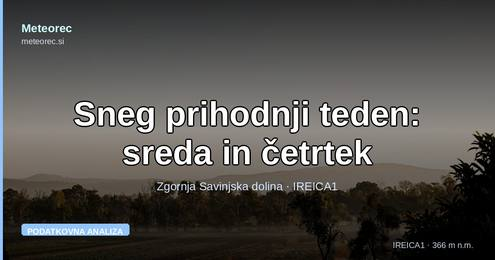
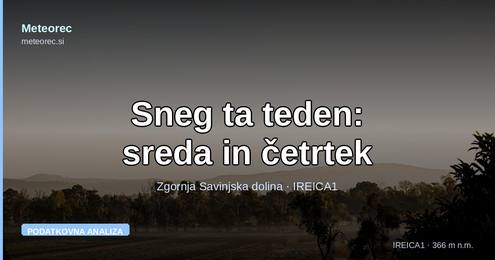
Članek o snegu: »ta teden« namesto »prihodnji teden« (#1633)
* blog: sneg prihodnji teden (ansambli, 21. 11. 2026)

Ročni podatkovni članek: sneg v Rečici in na višinah od 23. do 29. 11. po ansamblih
ECMWF ENS, ICON-EPS, GEFS in GEM ENS, determinističnih modelih, MTR in MTR sneg.
Generator tools/generate_sneg_teden_post.py (assert-i), prenos tools/sneg_teden_data.py,
posnetek data/sneg-teden-1121.json. wire_all(): blog.json, indeks, sitemap, RSS, teme, OG.

Claude-Session: https://claude.ai/code/session_01WWkqmgUoFwBSRyTuAjUpxi

* docs: besedilo članka o snegu prihodnji teden za lekturo

Claude-Session: https://claude.ai/code/session_01WWkqmgUoFwBSRyTuAjUpxi

* blog: fotografiji v članku o snegu prihodnji teden

Dve arhivski fotografiji (20. 1. 2019, brez EXIF), v podpisu označeni kot ilustraciji.

Claude-Session: https://claude.ai/code/session_01WWkqmgUoFwBSRyTuAjUpxi

* blog: lektorirano besedilo članka o snegu prihodnji teden

Prenos lektorskih popravkov v generator (nov sneg ≠ snežna odeja, razlaga obdobja 25.–26. 11.,
poenotena besedila grafov, ploščic in omejitev). Meta opis skrajšan na ≤ 160 znakov.

Claude-Session: https://claude.ai/code/session_01WWkqmgUoFwBSRyTuAjUpxi

* blog: osveži vnos in povezave po skrajšanem meta opisu (wire_all)

Claude-Session: https://claude.ai/code/session_01WWkqmgUoFwBSRyTuAjUpxi

* kartice in besedila za FB/IG: sneg prihodnji teden

Štiri kartice 1080×1350 (91 %, kdaj, koliko po višinah, prvi sneg v dolini), generator s
[…]

Changed region(s): [[0.1515, 0.3692, 0.8485, 0.5231]]

diff --git a/blog/sneg-prihodnji-teden-sreda-cetrtek-1121.html b/blog/sneg-prihodnji-teden-sreda-cetrtek-1121.html
@@ -17,7 +17,7 @@ j=d.createElement(s),dl=l!='dataLayer'?'&l='+l:'';j.async=true;j.src=
   gtag('config', 'G-LE8PJ1HR8B');
 </script>
 <meta name="viewport" content="width=device-width, initial-scale=1.0">
-<title>Sneg prihodnji teden: v dolini kaže na sredo in četrtek</title>
+<title>Sneg ta teden: v dolini kaže na sredo in četrtek | Meteorec</title>
 <link rel="canonical" href="https://meteorec.si/blog/sneg-prihodnji-teden-sreda-cetrtek-1121.html">
 <link rel="alternate" hreflang="sl" href="https://meteorec.si/blog/sneg-prihodnji-teden-sreda-cetrtek-1121.html">
 <link rel="alternate" hreflang="x-default" href="https://meteorec.si/blog/sneg-prihodnji-teden-sreda-cetrtek-1121.html">
@@ -79,12 +79,12 @@ height="0" width="0" style="display:none;visibility:hidden"></iframe></noscript>
   </header>
 
   <nav class="crumbs" aria-label="Drobtine">
-    <a href="/">Meteorec</a> › <a href="/blog/">Blog</a> › Sneg prihodnji teden: v dolini kaže na sredo in četrtek
+    <a href="/">Meteorec</a> › <a href="/blog/">Blog</a> › Sneg ta teden: v dolini kaže na sredo in četrtek
   </nav>
 
   <article>
     <div class="stn-badge"><span></span> Podatkovna analiza</div>
-    <h1>Sneg prihodnji teden: v dolini kaže na sredo in četrtek</h1>
+    <h1>Sneg ta teden: v dolini kaže na sredo in četrtek</h1>
     <p class="post-meta">21. novembra 2026 · Filip Eremita · podatkovna analiza</p>
 
     <style>

diff --git a/blog/index.html b/blog/index.html
@@ -261,7 +261,7 @@ height="0" width="0" style="display:none;visibility:hidden"></iframe></noscript>
   <ul class="post-list">
     <li>
       <a class="post-card" href="sneg-prihodnji-teden-sreda-cetrtek-1121.html">
-        <img class="post-thumb" src="/og/t/sneg-prihodnji-teden-sreda-cetrtek-1121.jpg" alt="Sneg prihodnji teden: v dolini kaže na sredo in četrtek" width="260" height="260" loading="eager" fetchpriority="high">
+        <img class="post-thumb" src="/og/t/sneg-prihodnji-teden-sreda-cetrtek-1121.jpg" alt="Sneg ta teden: v dolini kaže na sredo in četrtek" width="260" height="260" loading="eager" fetchpriority="high">
         <div class="post-card-body">
           <div class="date">21. novembra 2026 <span class="post-updated" title="Posodobljeno 23. novembra 2026">☁</span></div>
           <h2>Sneg prihodnji teden: v dolini kaže na sredo in četrtek</h2>

diff --git a/blog/tema/ansambli/index.html b/blog/tema/ansambli/index.html
@@ -45,7 +45,7 @@
   <ul class="post-list">
     <li>
       <a class="post-card" href="/blog/sneg-prihodnji-teden-sreda-cetrtek-1121.html">
-        <img class="post-thumb" src="/og/t/sneg-prihodnji-teden-sreda-cetrtek-1121.jpg" alt="Sneg prihodnji teden: v dolini kaže na sredo in četrtek" width="260" height="260" loading="eager" fetchpriority="high">
+        <img class="post-thumb" src="/og/t/sneg-prihodnji-teden-sreda-cetrtek-1121.jpg" alt="Sneg ta teden: v dolini kaže na sredo in četrtek" width="260" height="260" loading="eager" fetchpriority="high">
         <div class="post-card-body">
           <div class="date">21. novembra 2026</div>
           <h2>Sneg prihodnji teden: v dolini kaže na sredo in četrtek</h2>

diff --git a/blog/tema/golte/index.html b/blog/tema/golte/index.html
@@ -45,7 +45,7 @@
   <ul class="post-list">
     <li>
       <a class="post-card" href="/blog/sneg-prihodnji-teden-sreda-cetrtek-1121.html">
-        <img class="post-thumb" src="/og/t/sneg-prihodnji-teden-sreda-cetrtek-1121.jpg" alt="Sneg prihodnji teden: v dolini kaže na sredo in četrtek" width="260" height="260" loading="eager" fetchpriority="high">
+        <img class="post-thumb" src="/og/t/sneg-prihodnji-teden-sreda-cetrtek-1121.jpg" alt="Sneg ta teden: v dolini kaže na sredo in četrtek" width="260" height="260" loading="eager" fetchpriority="high">
         <div class="post-card-body">
           <div class="date">21. novembra 2026</div>
           <h2>Sneg prihodnji teden: v dolini kaže na sredo in četrtek</h2>

diff --git a/blog/tema/napoved/index.html b/blog/tema/napoved/index.html
@@ -45,7 +45,7 @@
   <ul class="post-list">
     <li>
       <a class="post-card" href="/blog/sneg-prihodnji-teden-sreda-cetrtek-1121.html">
-        <img class="post-thumb" src="/og/t/sneg-prihodnji-teden-sreda-cetrtek-1121.jpg" alt="Sneg prihodnji teden: v dolini kaže na sredo in četrtek" width="260" height="260" loading="eager" fetchpriority="high">
+        <img class="post-thumb" src="/og/t/sneg-prihodnji-teden-sreda-cetrtek-1121.jpg" alt="Sneg ta teden: v dolini kaže na sredo in četrtek" width="260" height="260" loading="eager" fetchpriority="high">
         <div class="post-card-body">
           <div class="date">21. novembra 2026</div>
           <h2>Sneg prihodnji teden: v dolini kaže na sredo in četrtek</h2>

diff --git a/blog/tema/nizine/index.html b/blog/tema/nizine/index.html
@@ -45,7 +45,7 @@
   <ul class="post-list">
     <li>
       <a class="post-card" href="/blog/sneg-prihodnji-teden-sreda-cetrtek-1121.html">
-        <img class="post-thumb" src="/og/t/sneg-prihodnji-teden-sreda-cetrtek-1121.jpg" alt="Sneg prihodnji teden: v dolini kaže na sredo in četrtek" width="260" height="260" loading="eager" fetchpriority="high">
+        <img class="post-thumb" src="/og/t/sneg-prihodnji-teden-sreda-cetrtek-1121.jpg" alt="Sneg ta teden: v dolini kaže na sredo in četrtek" width="260" height="260" loading="eager" fetchpriority="high">
         <div class="post-card-body">
           <div class="date">21. novembra 2026</div>
           <h2>Sneg prihodnji teden: v dolini kaže na sredo in četrtek</h2>

diff --git a/blog/tema/november/index.html b/blog/tema/november/index.html
@@ -45,7 +45,7 @@
   <ul class="post-list">
     <li>
       <a class="post-card" href="/blog/sneg-prihodnji-teden-sreda-cetrtek-1121.html">
-        <img class="post-thumb" src="/og/t/sneg-prihodnji-teden-sreda-cetrtek-1121.jpg" alt="Sneg prihodnji teden: v dolini kaže na sredo in četrtek" width="260" height="260" loading="eager" fetchpriority="high">
+        <img class="post-thumb" src="/og/t/sneg-prihodnji-teden-sreda-cetrtek-1121.jpg" alt="Sneg ta teden: v dolini kaže na sredo in četrtek" width="260" height="260" loading="eager" fetchpriority="high">
         <div class="post-card-body">
           <div class="date">21. novembra 2026</div>
           <h2>Sneg prihodnji teden: v dolini kaže na sredo in četrtek</h2>

diff --git a/blog/tema/sneg/index.html b/blog/tema/sneg/index.html
@@ -45,7 +45,7 @@
   <ul class="post-list">
     <li>
       <a class="post-card" href="/blog/sneg-prihodnji-teden-sreda-cetrtek-1121.html">
-        <img class="post-thumb" src="/og/t/sneg-prihodnji-teden-sreda-cetrtek-1121.jpg" alt="Sneg prihodnji teden: v dolini kaže na sredo in četrtek" width="260" height="260" loading="eager" fetchpriority="high">
+        <img class="post-thumb" src="/og/t/sneg-prihodnji-teden-sreda-cetrtek-1121.jpg" alt="Sneg ta teden: v dolini kaže na sredo in četrtek" width="260" height="260" loading="eager" fetchpriority="high">
         <div class="post-card-body">
           <div class="date">21. novembra 2026</div>
           <h2>Sneg prihodnji teden: v dolini kaže na sredo in četrtek</h2>

diff --git a/tools/generate_sneg_teden_post.py b/tools/generate_sneg_teden_post.py
@@ -37,6 +37,12 @@ STYLE = BASE_STYLE.replace("</style>", ".sg-m{fill:var(--muted)}.sg-i{fill:var(-
 ROOT = os.path.dirname(os.path.dirname(os.path.abspath(__file__)))
 DATA = os.path.join(ROOT, "data", "sneg-teden-1121.json")
 SLUG = "sneg-prihodnji-teden-sreda-cetrtek-1121"
+
+
+def teden_word():
+    """Od ponedeljka 23. 11. je sreda/četrtek že »ta teden« (članek je nastal v soboto, ko je bil »prihodnji«)."""
+    return "ta teden" if datetime.date.today() >= datetime.date(2026, 11, 23) else "prihodnji teden"
+
 TEXT_OUT = os.path.join(ROOT, "docs", "lektura-sneg-teden.txt")
 NBSP = " "
 LINK = 'style="color:var(--blue)"'
@@ -414,7 +420,7 @@ def build_article(S):
         (temp(tue["tmin"], 0).replace(NBSP + "°C", ""), "°C", f"najnižja temperatura v torek zjutraj po modelu MTR; verjetnost zmrzali (najnižja temperatura 0 °C ali manj) je po modelu {rnd(tue['p_frost'] * 100)} %", False),
     ])
 
-    lead = (f"Da. Po današnjih izračunih bo v Rečici prihodnji teden snežilo, najverjetneje od srede {fp} do četrtka. "
+    lead = (f"Da. Po današnjih izračunih bo v Rečici {teden_word()} snežilo, najverjetneje od srede {fp} do četrtka. "
             f"Vsaj 1 cm novega snega med sredo in četrtkom skupaj napoveduje {pc(w2['cm1'])} od skupno {S.n} članov ansamblov, mediana količine pa znaša {rnd(w2['med'])} cm. "
             f"{dva_dni.capitalize()} snega v dolini ni pričakovati.")
 
@@ -578,9 +584,9 @@ def build_article(S):
         'in neposredne povezave na ta članek. Za prepis ali vdelavo grafov in izračunov se predhodno dogovorite z avtorjem.</p>',
     ]
 
-    title = "Sneg prihodnji teden: v dolini kaže na sredo in četrtek"
+    title = f"Sneg {teden_word()}: v dolini kaže na sredo in četrtek"
     assert len(title) <= 60, len(title)
-    desc = (f"Bo prihodnji teden sneg? V Rečici ga za sredo in četrtek napoveduje {w2['cm1']} % članov ansamblov, mediana je {rnd(w2['med'])} cm. "
+    desc = (f"Bo {teden_word()} sneg? V Rečici ga za sredo in četrtek napoveduje {w2['cm1']} % članov ansamblov, mediana je {rnd(w2['med'])} cm. "
             "Kdaj, koliko in na katerih višinah?")
     assert len(desc) <= 160, len(desc)
     sections = [
@@ -654,7 +660,7 @@ def main():
     ftp.TODAY = prev_entry["date"] if prev_entry else today.isoformat()
     slug, html, entry, og_meta = ftp.build_html(
         article, today.year, today.month, now_utc, slug=SLUG, back=("/blog/", "← Vsi članki"),
-        og_title="Sneg prihodnji teden:\nsreda in četrtek", meta_note="podatkovna analiza",
+        og_title=f"Sneg {teden_word()}:\nsreda in četrtek", meta_note="podatkovna analiza",
         nav_label="O postaji", nav_href="/o-postaji.html")
     lead = f'<p class="lead">{article["lead"]}</p>'
     assert html.count(lead) == 1, "uvoda ni mogoče najti za vstavitev sloga"
@@ -678,6 +684,7 @@ def main():
         from generate_monthly_post import wire_all, touch_existing
         if prev_entry and prev_entry["date"] != today.isoformat():     # posodobitev kasnejši dan: `updated`, izvirni datum ostane
             prev_entry["summary"] = entry["summary"]
+            prev_entry["title"] = entry["title"]
             json.dump(posts, open(os.path.join(ROOT, "blog.json"), "w", encoding="utf-8"), ensure_ascii=False, indent=2)
             touch_existing(SLUG, wire=True)
         else:                                                          # isti dan kot objava: vnos se osveži (povzetek)

diff --git a/tools/generate_sneg_teden_card_variants.py b/tools/generate_sneg_teden_card_variants.py
@@ -60,7 +60,7 @@ def v1(S):
     img, d = canvas()
     header(img, d, "napoved za Rečico", thumb=False)
     badge(d, "NAPOVED, NE MERITEV")
-    d.text((PAD, 268), "Sneg prihodnji teden:", font=font(B, 76), fill=WHITE)
+    d.text((PAD, 268), f"Sneg {post.teden_word()}:", font=font(B, 76), fill=WHITE)
     d.text((PAD, 360), "sreda in četrtek.", font=font(B, 76), fill=ICE)
     d.text((PAD, 470), f"{w2['cm1']} %", font=font(B, 190), fill=WHITE)
     d.text((PAD, 690), "članov ansamblov napoveduje v Rečici vsaj 1 cm", font=font(R, 34), fill=MUTED)

diff --git a/docs/fb-sneg-teden.md b/docs/fb-sneg-teden.md
@@ -1,4 +1,4 @@
-# FB/IG objave: »Sneg prihodnji teden: v dolini kaže na sredo in četrtek« (21. 11. 2026)
+# FB/IG objave: »Sneg ta teden: v dolini kaže na sredo in četrtek« (21. 11. 2026)
 
 Štiri kartice 1080×1350 (`og/sneg-prihodnji-teden-sreda-cetrtek-1121-kartica-N.jpg`, izdela jih
 `python3 tools/generate_sneg_teden_card_variants.py`) in besedilo za vsako. Pisano po `docs/slog-pisanja.md`
@@ -25,7 +25,7 @@ Za arhivske fotografije v članku (ne na karticah) velja podpis »ilustracija«.
 
 ## Kartica 1 — »Sneg prihodnji teden: sreda in četrtek« (94 %)
 
-❄ Bo prihodnji teden sneg? Po današnjih izračunih v dolini da.
+❄ Bo ta teden sneg? Po današnjih izračunih v dolini da.
 
 Vsaj 1 cm novega snega v Rečici med sredo in četrtkom napoveduje 94 % od 143 članov ansamblov, mediana je 13 cm. Danes in jutri snega v dolini ni pričakovati.
 
